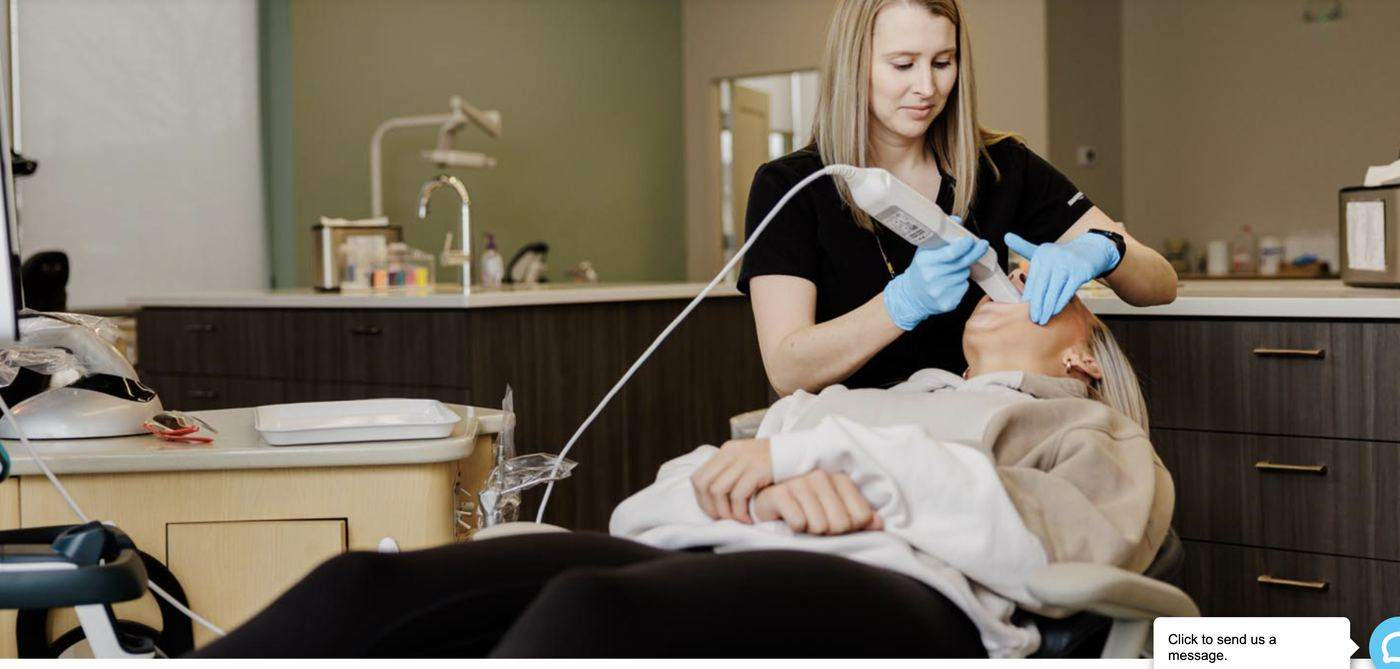
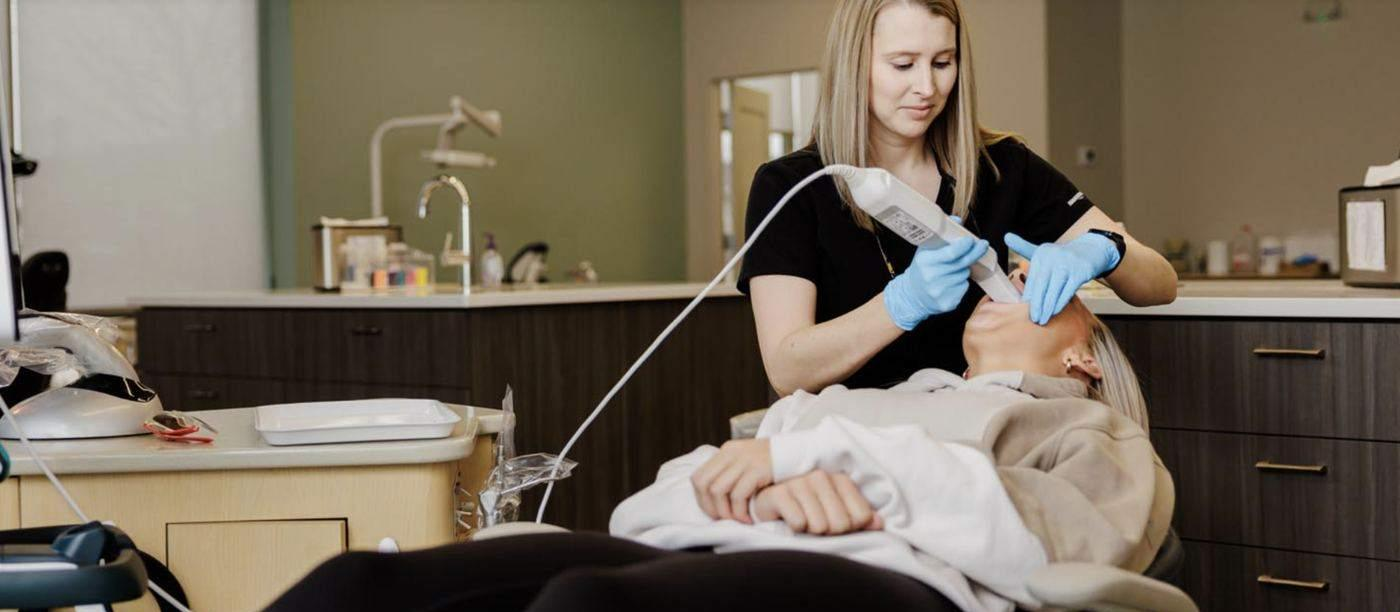
Get the fake chat bubble out of hero-2, and frame it properly on mobile
hero-2.jpg had the Weave widget baked into it — 'Click to send us a message' and
the teal bubble. It is a screenshot of a webpage, not a photograph, so the live
site was showing an unclickable imitation of the chat widget a few hundred pixels
from the real one. It has been there the whole time, in the hero rotation and the
office grid. Cropped above it: 1400x669 -> 1400x612.

My first attempt cropped to 1400x235 because the teal detector matched her
gloves. Constraining the search to the bottom-right corner, where a chat widget
can actually be, found the real thing at 92% down.

The tile crop is fixed too. She sits at about 66% across, so a centre crop pushed
her to the edge with the counter filling the left — that is the misalignment.
object-position 66% 35% frames her and the patient. Also corrected the declared
height, which claimed 1050 against a real 669, and the alt text, which called a
photo of a doctor treating someone 'a treatment room'.

Only hero-2 was affected; the same colour test flagged three others that turned
out to be a blue patient shirt, a dark chair and green race t-shirts.

diff --git a/index.html b/index.html
@@ -141,7 +141,7 @@
       <p>A clean, comfortable office with the personal feel of a family-owned practice.</p>
     </div>
     <div class="office-grid">
-      <div class="photo-ph real light fade-up"><img src="assets/img/hero-2.jpg" alt="A treatment room at Uptown Orthodontics" width="1400" height="1050" loading="lazy" decoding="async"></div>
+      <div class="photo-ph real light fade-up"><img src="assets/img/hero-2.jpg" alt="Dr. Hannah Collison treating a patient" width="1400" height="612" loading="lazy" decoding="async" style="object-position:66% 35%"></div>
       <div class="photo-ph real light fade-up"><img src="assets/img/hero-1.jpg" alt="An orthodontist treating a patient at Uptown Orthodontics" width="1400" height="1050" loading="lazy" decoding="async"></div>
       <div class="photo-ph real light fade-up"><img src="assets/img/dr-collison.jpg" alt="Dr. Hannah Collison at the practice" width="1400" height="1050" loading="lazy" decoding="async" style="object-position:center 25%"></div>
       <div class="photo-ph real light fade-up"><img src="assets/img/office-1.jpg" alt="The reception area at Uptown Orthodontics" width="1400" height="1050" loading="lazy" decoding="async"></div>

diff --git a/src/pages/index.html b/src/pages/index.html
@@ -40,7 +40,7 @@
       <p>A clean, comfortable office with the personal feel of a family-owned practice.</p>
     </div>
     <div class="office-grid">
-      <div class="photo-ph real light fade-up"><img src="assets/img/hero-2.jpg" alt="A treatment room at Uptown Orthodontics" width="1400" height="1050" loading="lazy" decoding="async"></div>
+      <div class="photo-ph real light fade-up"><img src="assets/img/hero-2.jpg" alt="Dr. Hannah Collison treating a patient" width="1400" height="612" loading="lazy" decoding="async" style="object-position:66% 35%"></div>
       <div class="photo-ph real light fade-up"><img src="assets/img/hero-1.jpg" alt="An orthodontist treating a patient at Uptown Orthodontics" width="1400" height="1050" loading="lazy" decoding="async"></div>
       <div class="photo-ph real light fade-up"><img src="assets/img/dr-collison.jpg" alt="Dr. Hannah Collison at the practice" width="1400" height="1050" loading="lazy" decoding="async" style="object-position:center 25%"></div>
       <div class="photo-ph real light fade-up"><img src="assets/img/office-1.jpg" alt="The reception area at Uptown Orthodontics" width="1400" height="1050" loading="lazy" decoding="async"></div>
